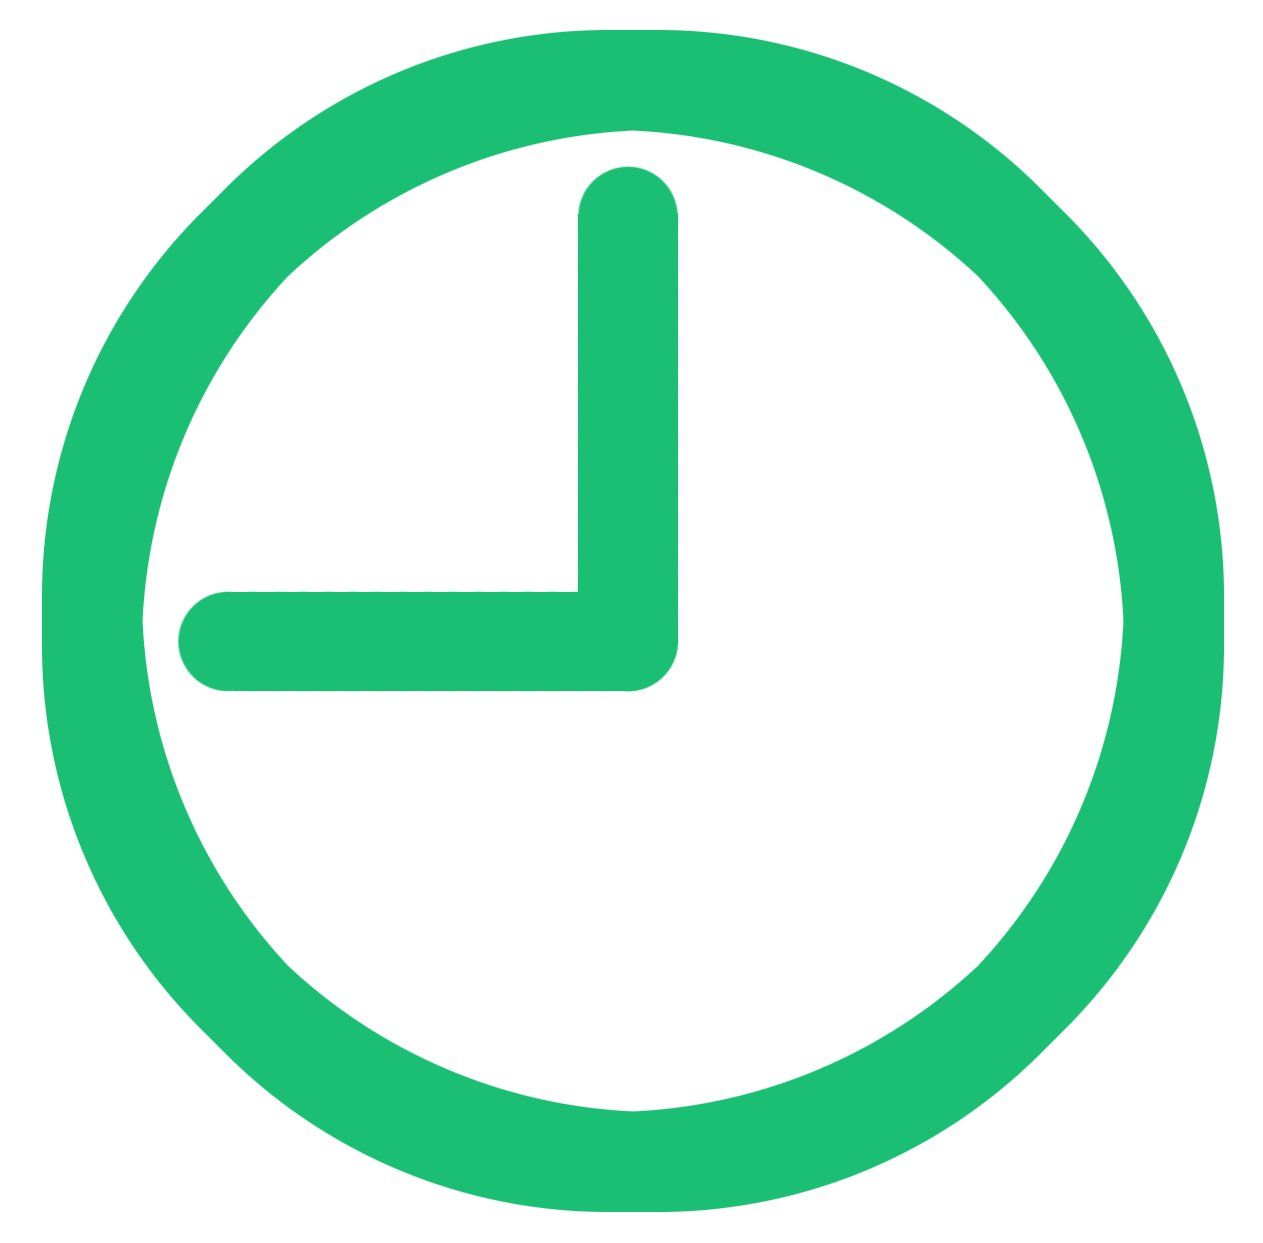
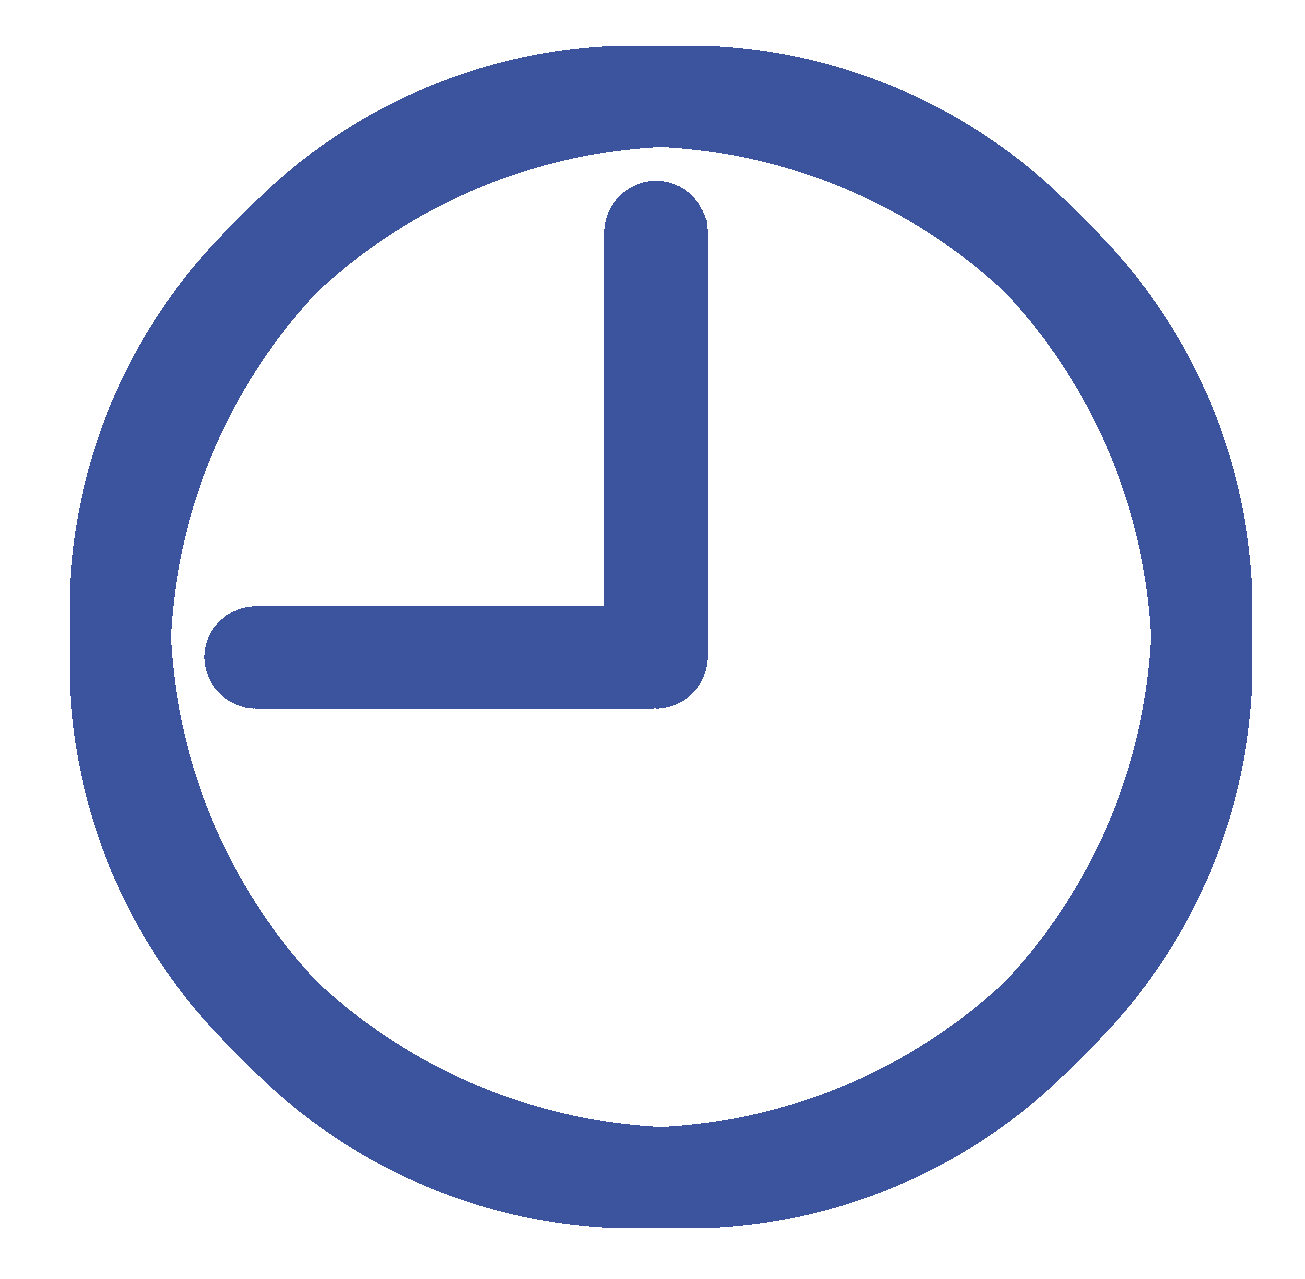
Indicate ticks and crosses for task cards

diff --git a/src/main/resources/view/TacheTheme.css b/src/main/resources/view/TacheTheme.css
@@ -1,6 +1,6 @@
 /* @@author A0142255M */
 .text-field {
-    -fx-background-color: #1bbf73;
+    -fx-background-color: #5f77bd;
     -fx-font-size: 12pt;
     -fx-font-family: "Segoe UI Semibold";
     -fx-prompt-text-fill: black;
@@ -25,7 +25,7 @@
 }
 
 .result-display {
-    -fx-text-fill: #1bbf73;
+    -fx-text-fill: #5f77bd;
     -fx-font-family: Segoe UI Light;
     -fx-font-size: 15px;
 }
@@ -35,7 +35,7 @@
 }
 
 .status-bar .label {
-    -fx-text-fill: #1bbf73;
+    -fx-text-fill: #5f77bd;
     -fx-font-size: 15px;
 }
 
@@ -46,7 +46,7 @@
 .menu-bar .label {
     -fx-font-size: 14pt;
     -fx-font-family: "Segoe UI Semibold";
-    -fx-text-fill: #1bbf73;
+    -fx-text-fill: #5f77bd;
 }
 
 .task-list-header {
@@ -56,12 +56,12 @@
 .task-list-header .label {
     -fx-font-size: 15pt;
     -fx-font-family: "Segoe UI Semibold";
-    -fx-text-fill: #1bbf73;
+    -fx-text-fill: #5f77bd;
     -fx-alignment: center;
 }
 
 .task-card-id-and-name .label {
-    -fx-text-fill: white;
+    -fx-text-fill: #5f77bd;
     -fx-font-size: 12pt;
 }
 
@@ -72,7 +72,6 @@
 }
 
 #cardPane {
-    -fx-background-color: #1bbf73;
     -fx-border-color: #d6d6d6;
     -fx-border-width: 1 1 1 1;
 }

diff --git a/src/main/java/seedu/tache/ui/TaskCard.java b/src/main/java/seedu/tache/ui/TaskCard.java
@@ -4,9 +4,12 @@ import java.util.logging.Logger;
 
 import javafx.fxml.FXML;
 import javafx.scene.control.Label;
+import javafx.scene.image.Image;
+import javafx.scene.image.ImageView;
 import javafx.scene.layout.FlowPane;
 import javafx.scene.layout.HBox;
 import javafx.scene.layout.Region;
+import seedu.tache.MainApp;
 import seedu.tache.commons.core.LogsCenter;
 import seedu.tache.model.task.DateTime;
 import seedu.tache.model.task.ReadOnlyTask;
@@ -36,10 +39,13 @@ public class TaskCard extends UiPart<Region> {
     private Label name;
 
     @FXML
-    private FlowPane datesAndTimes;
+    private ImageView tickOrCross;
 
     @FXML
     private FlowPane tags;
+
+    @FXML
+    private FlowPane datesAndTimes;
 
     //@@author A0142255M
     public TaskCard(ReadOnlyTask task, int displayedIndex) {
@@ -49,8 +55,20 @@ public class TaskCard extends UiPart<Region> {
         id.setText(Integer.toString(displayedIndex) + ". ");
         name.setText(task.getName().toString());
         name.setWrapText(true); // spill over to next line if task name is too long
+        setTickOrCross(task);
         initDatesAndTimes(task);
         initTags(task);
+    }
+
+    private void setTickOrCross(ReadOnlyTask task) {
+        if (task.getActiveStatus() == false) { // task is completed
+            tickOrCross.setImage(new Image(MainApp.class.getResource("/images/tick.png").toExternalForm()));
+        } else if (task.getEndDateTime().isPresent()) {
+            DateTime taskDate = task.getEndDateTime().get();
+            if (taskDate.hasPassed()) { // task is overdue
+                tickOrCross.setImage(new Image(MainApp.class.getResource("/images/cross.png").toExternalForm()));
+            }
+        }
     }
 
     private void initDatesAndTimes(ReadOnlyTask task) {

diff --git a/src/main/java/seedu/tache/model/task/DateTime.java b/src/main/java/seedu/tache/model/task/DateTime.java
@@ -110,12 +110,11 @@ public class DateTime {
                 || (other instanceof DateTime // instanceof handles nulls
                 && this.date.equals(((DateTime) other).getDate())); // state check
     }
-    //@@author
 
-    /*@Override
-    public int hashCode() {
-        return (startDate.hashCode() && endDate.hashCode());
-    }*/
+    public boolean hasPassed() {
+        Date today = new Date();
+        return this.date.before(today);
+    }
 
     //@@author A0139961U
     public boolean isToday() {
@@ -133,5 +132,10 @@ public class DateTime {
         return (thisWeekNo == cal.get(Calendar.WEEK_OF_YEAR));
     }
     //@@author
+
+    /*@Override
+    public int hashCode() {
+        return (startDate.hashCode() && endDate.hashCode());
+    }*/
 
 }
